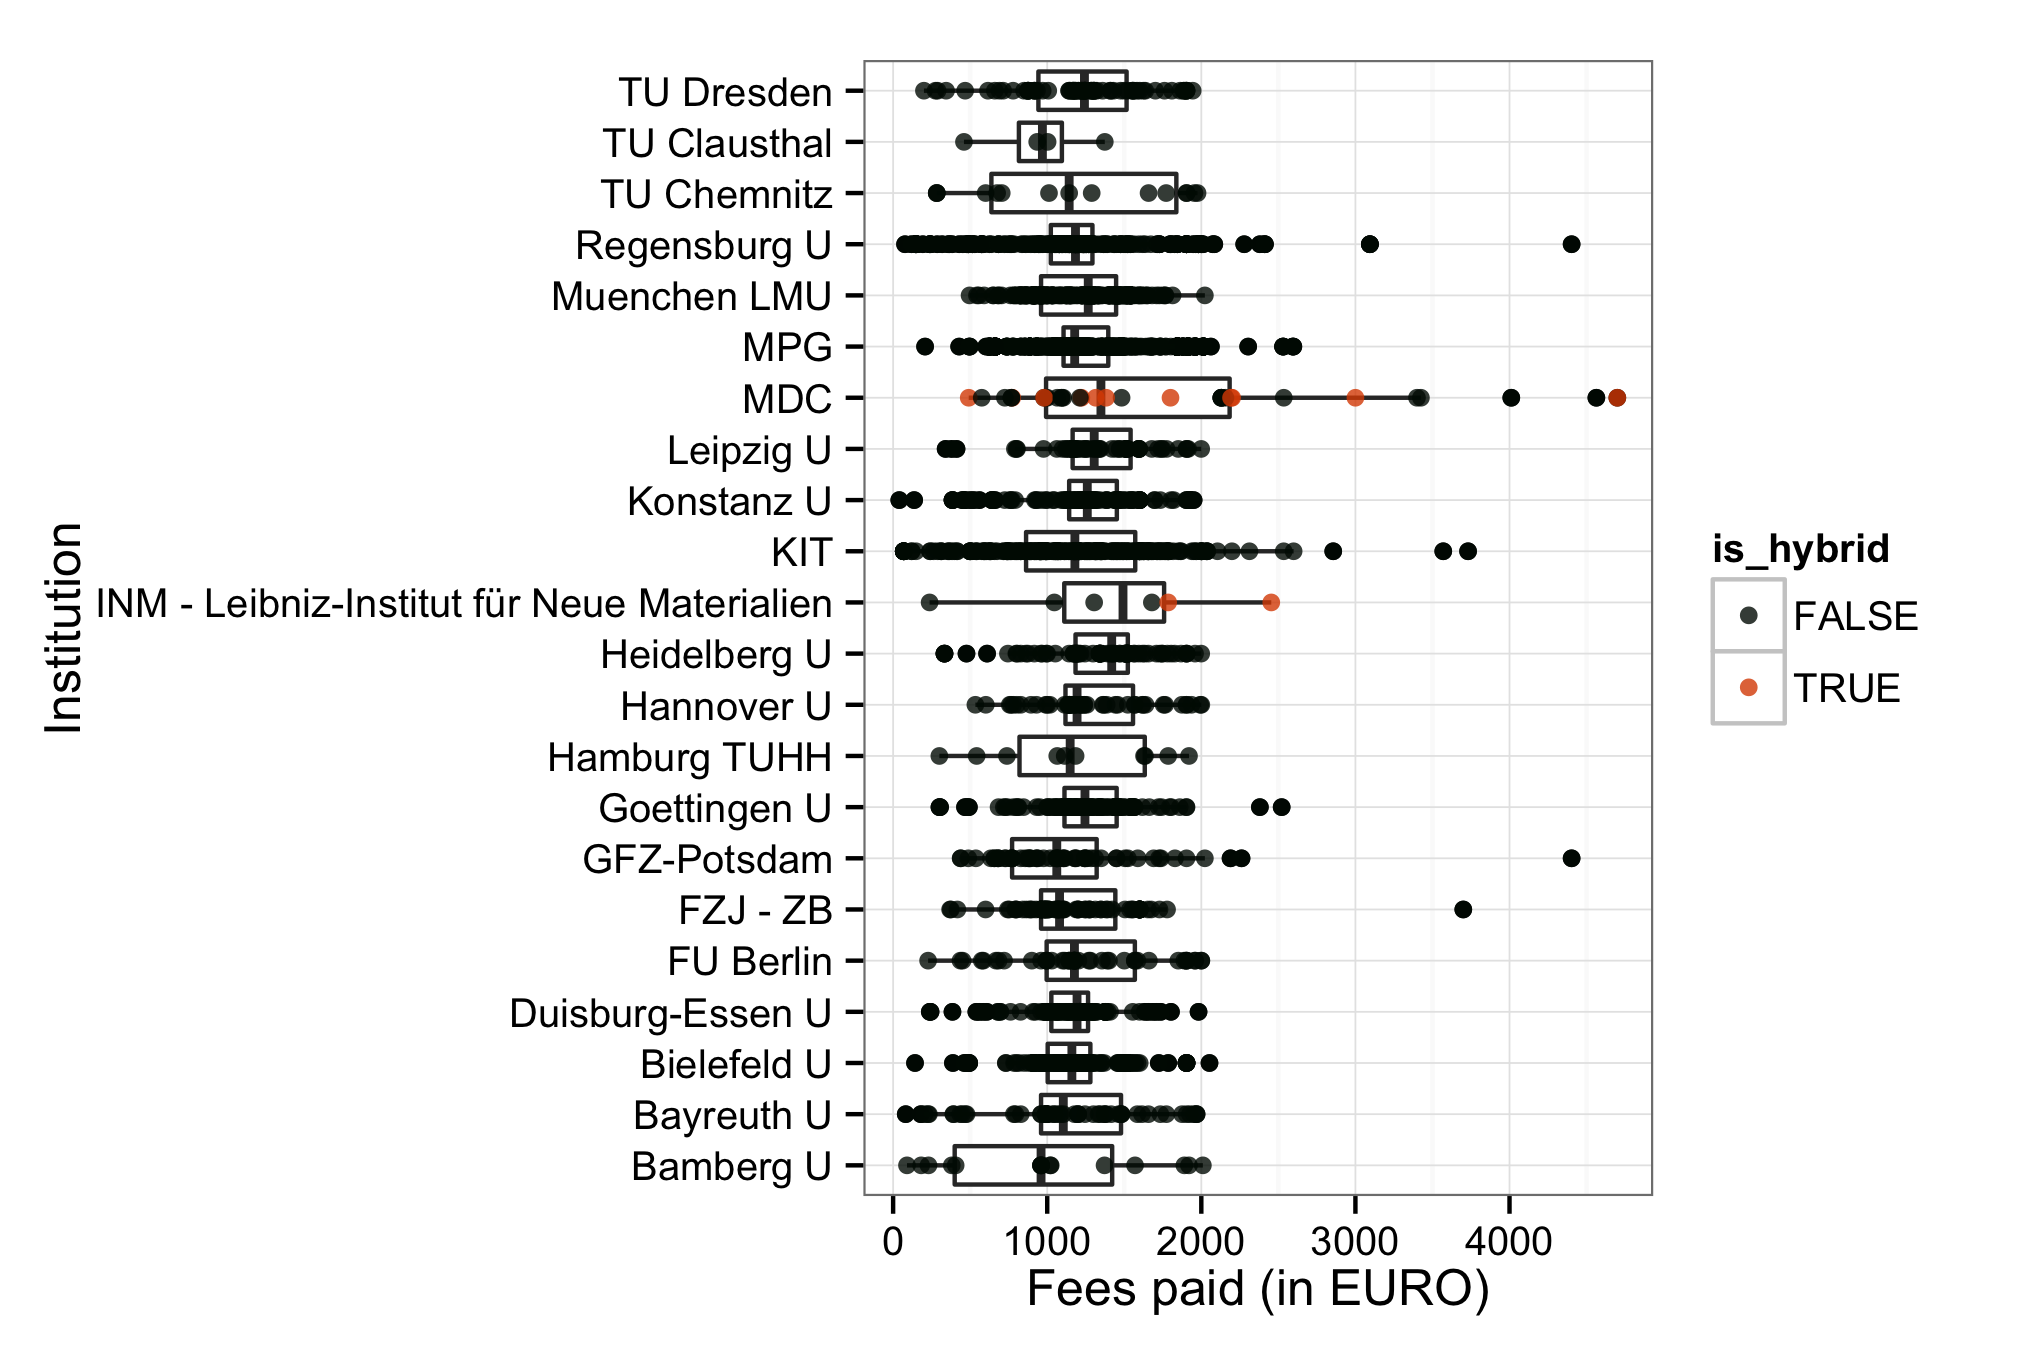
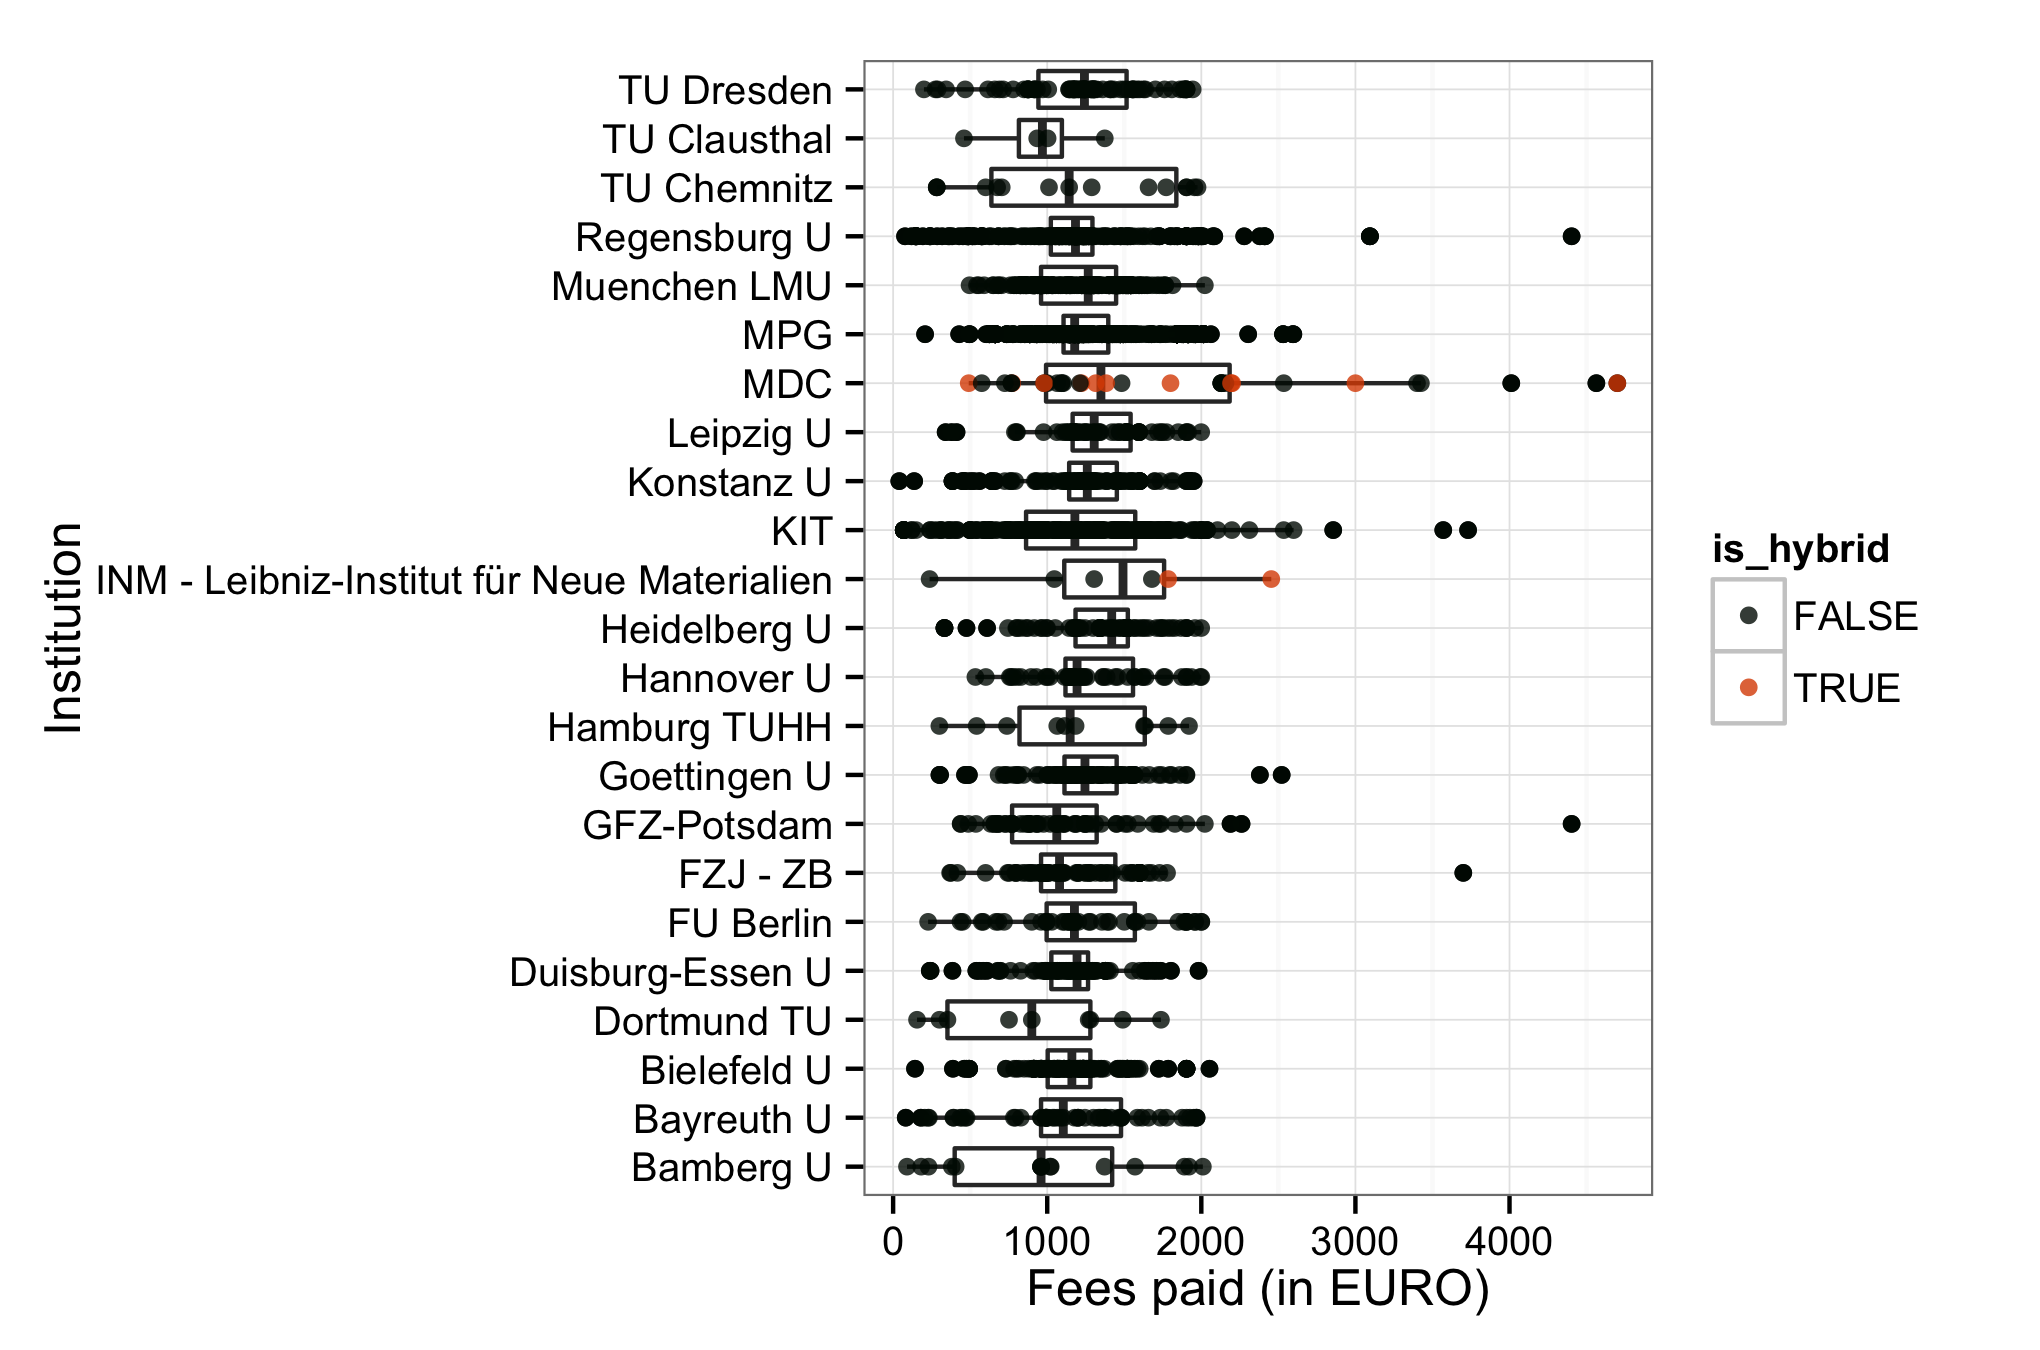
tu dortmund 2014 #41

Changed region(s): [[0.0309, 0.0311, 0.8029, 0.8711], [0.7103, 0.5911, 0.8029, 0.6844], [0.7412, 0.1556, 0.7721, 0.1867]]

diff --git a/README.md b/README.md
@@ -24,6 +24,7 @@ So far, the following German universities have agreed to share information on pa
 - [Free University of Berlin](http://www.fu-berlin.de/sites/open_access/dienstleistungen/artikelgebuehren/publikationsfonds/index.html)
 - [KIT Karlsruhe](http://www.bibliothek.kit.edu/cms/kit-publikationsfonds.php)
 - [Technische Universität Chemnitz](https://www.tu-chemnitz.de/ub/publizieren/openaccess/publikationsfonds.html)
+- [Technische Universität Dortmund](http://www.ub.tu-dortmund.de/open-access/index.html)
 - [Technische Universität Dresden](http://www.slub-dresden.de/service/schreiben-publizieren/open-access-service/publikationsfonds/)
 - [University of Bamberg](http://www.uni-bamberg.de/en/ub/publishing/open-access-publishing/open-access-funds/)
 - [University of Duisburg-Essen](https://www.uni-due.de/ub/open_access.shtml)
@@ -53,13 +54,13 @@ ation/library)
 
 Information on both open access journal articles and open access publication of articles in toll-access journals ("hybrid") are provided.
 
-In total,  3 764 428€ for  3 055 articles were paid by the participating unviversities. Average  fee is 1 232.2€ and the median 1 198€.
+In total,  3 772 665€ for  3 064 articles were paid by the participating unviversities. Average  fee is 1 231.3€ and the median 1 198€.
 
 ### Open Access Journals
 
 
 
-At the moment, the dataset releases information on 3 042 articles in open access journals which charge publication fees. Total expenditure amounts to  3 740 134€. Average  fee is 1 229.5€ and the median 1 197€.
+At the moment, the dataset releases information on 3 051 articles in open access journals which charge publication fees. Total expenditure amounts to  3 748 372€. Average  fee is 1 228.6€ and the median 1 196€.
 
 View dataset on [GitHub](https://github.com/OpenAPC/openapc-de/blob/master/data/apc_de.csv).
 
@@ -69,6 +70,7 @@ View dataset on [GitHub](https://github.com/OpenAPC/openapc-de/blob/master/data/
 |Bamberg U                                   |       16|             15932|           996|    960|
 |Bayreuth U                                  |       57|             64519|          1132|   1104|
 |Bielefeld U                                 |      160|            187296|          1171|   1160|
+|Dortmund TU                                 |        9|              8238|           915|    900|
 |Duisburg-Essen U                            |      114|            130989|          1149|   1194|
 |FU Berlin                                   |       45|             56074|          1246|   1177|
 |FZJ - ZB                                    |       76|             90411|          1190|   1080|
@@ -167,7 +169,7 @@ This work is licensed under the Creative Commons Attribution 4.0 Unported Licens
 
 Bielefeld University Library archives a remote including version history. To cite:
 
-Apel, Jochen; Bertelmann, Roland; Beucke, Daniel; Blumtritt, Ute; Busjahn, Dorothea;  Deinzer, Gernot; Dorner, Andrea; Engelhardt, Clemens; Hell, Dominik; Herb, Ulrich; Feldsien-Sudhaus, Inken; Franke, Fabian; Frick, Claudia; Geschuhn, Kai Karin; Kuehle, Gerrit; Jaeger, Doris;  Lützenkirchen, Frank; Kroiss, Stephanie; Oberländer, Anja; 
+Apel, Jochen; Becker, Hans-Georg; Bertelmann, Roland; Beucke, Daniel; Blumtritt, Ute; Busjahn, Dorothea;  Deinzer, Gernot; Dorner, Andrea; Engelhardt, Clemens; Hell, Dominik; Herb, Ulrich; Feldsien-Sudhaus, Inken; Franke, Fabian; Frick, Claudia; Geschuhn, Kai Karin; Kuehle, Gerrit; Jaeger, Doris;  Lützenkirchen, Frank; Kroiss, Stephanie; Oberländer, Anja; 
 Peil, Vitali; Pieper, Dirk; Schlachter, Michael; Schlegel, Birgit; Sikora, Adriana; Tullney, Marco; Vieler, Astrid; Witt, Sabine; Jahn, Najko; (2014 -): *Datasets on fee-based Open Access publishing across German Institutions*. Bielefeld University. [10.4119/UNIBI/UB.2014.18](http://dx.doi.org/10.4119/UNIBI/UB.2014.18)
 
 ## Acknowledgement
@@ -178,7 +180,7 @@ For data enrichment, sample visualisations and explorations we build on the work
 
 ## Contributors
 
-Jochen Apel, Roland Bertelmann, Daniel Beucke, Ute Blumtritt, Dorothea Busjahn, Gernot Deinzer, Andrea Dorner,  Clemens Engelhardt, Dominik Hell, Ulrich Herb, Inken Feldsien-Sudhaus, Fabian Franke, Claudia Frick, Kai Karin Geschuhn, Gerrit Kuehle, Doris Jaeger, Stephanie Kroiss, Frank Lützenkirchen, Anja Oberländer, Vitali Peil, Dirk Pieper, Michael Schlachter, Birgit Schlegel, Adriana Sikora, Marco Tullney, Astrid Vieler, Sabine Witt, Najko Jahn
+Jochen Apel, Hans-Georg Becker, Roland Bertelmann, Daniel Beucke, Ute Blumtritt, Dorothea Busjahn, Gernot Deinzer, Andrea Dorner,  Clemens Engelhardt, Dominik Hell, Ulrich Herb, Inken Feldsien-Sudhaus, Fabian Franke, Claudia Frick, Kai Karin Geschuhn, Gerrit Kuehle, Doris Jaeger, Stephanie Kroiss, Frank Lützenkirchen, Anja Oberländer, Vitali Peil, Dirk Pieper, Michael Schlachter, Birgit Schlegel, Adriana Sikora, Marco Tullney, Astrid Vieler, Sabine Witt, Najko Jahn
 
 ## Contact
 
